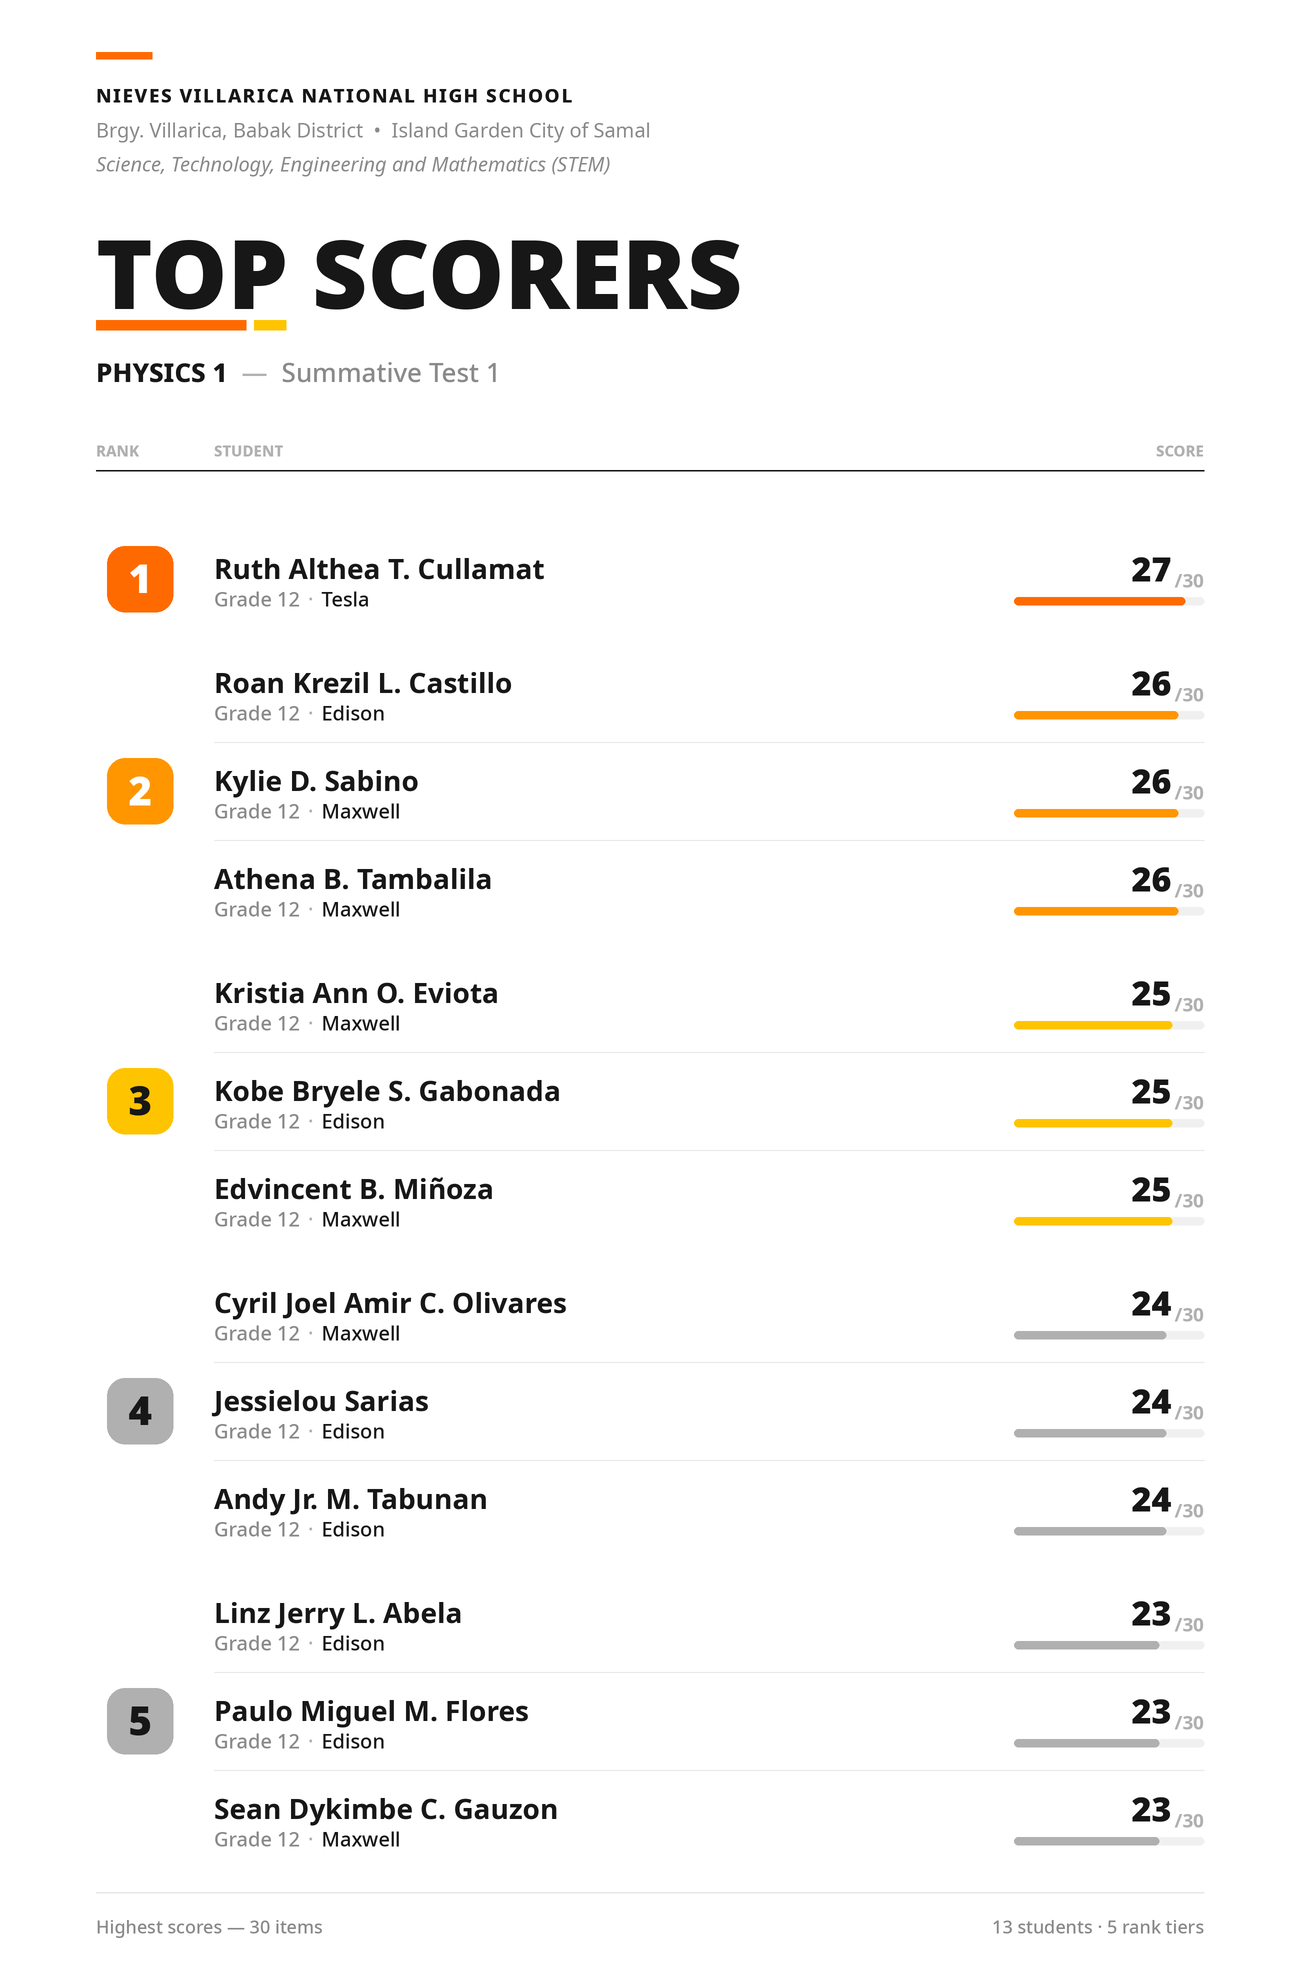
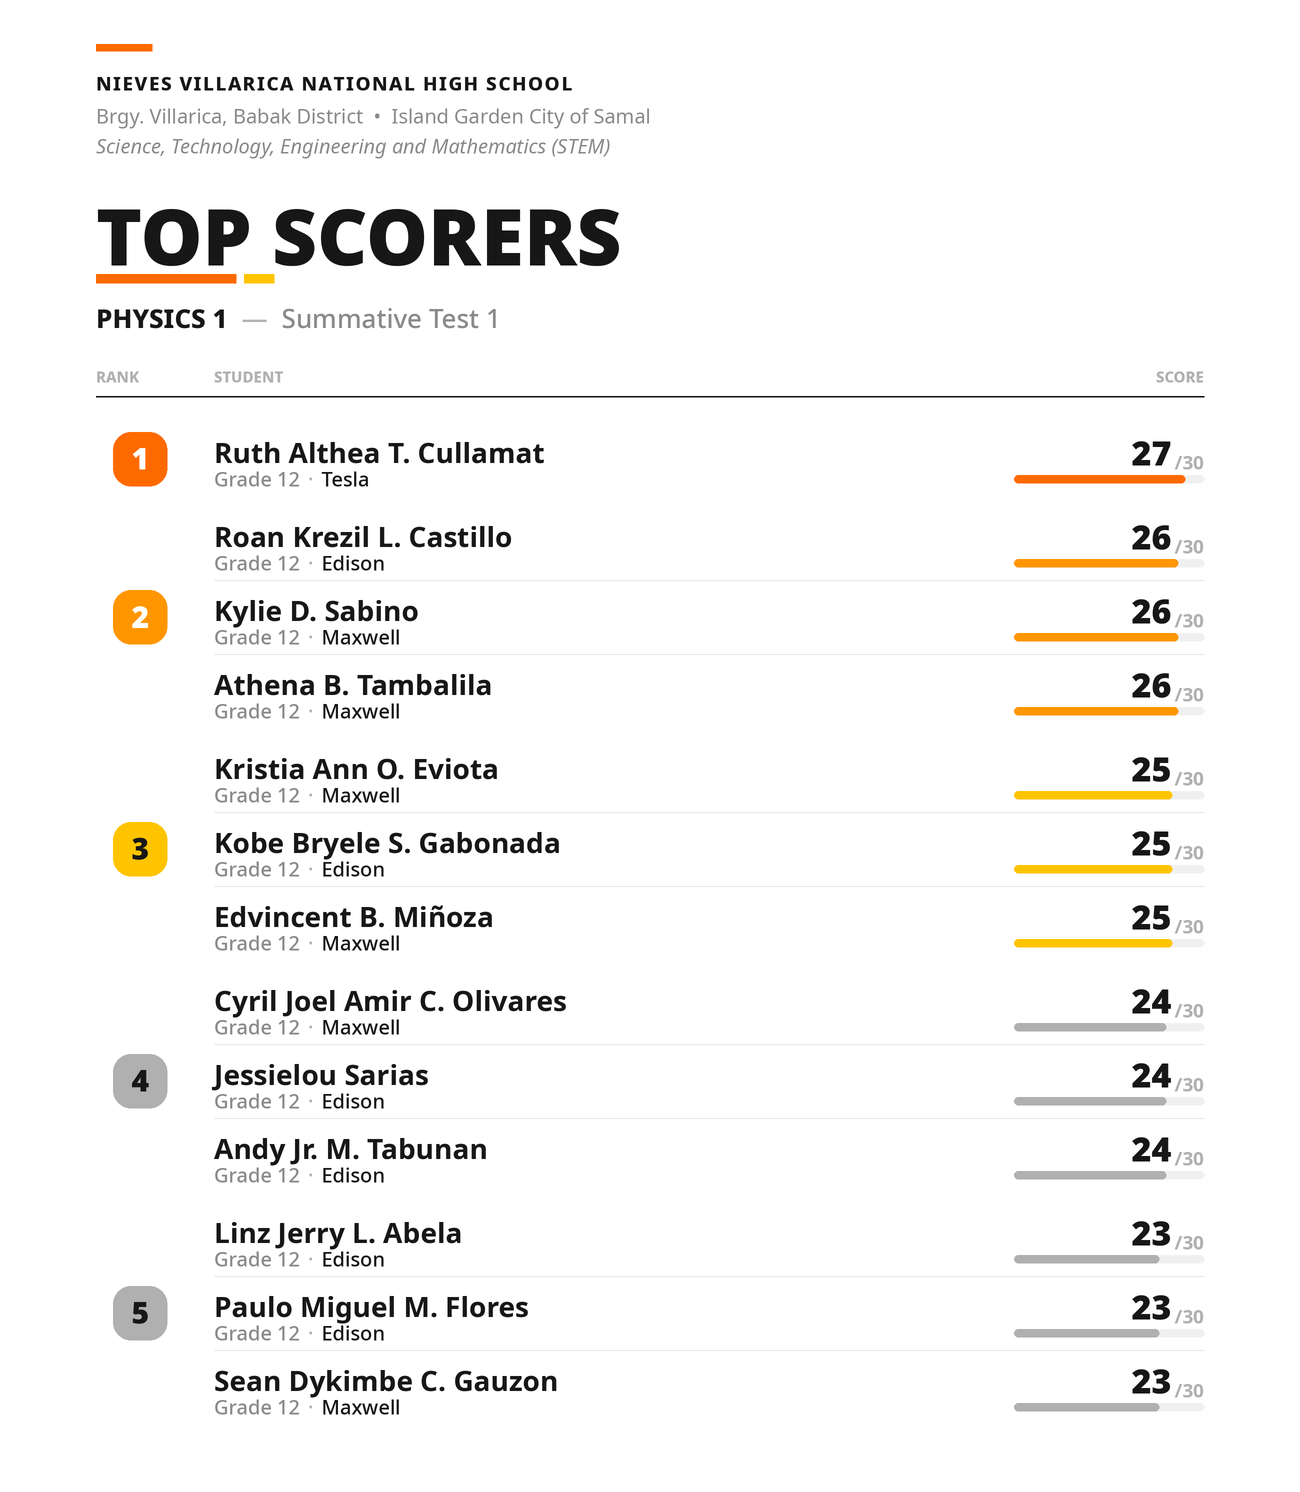
Remove footer text and compact the leaderboard layout

Changed region(s): [[0.0615, 0.0, 0.5846, 0.9866], [0.7692, 0.2158, 0.9231, 0.9866], [0.0923, 0.9558, 0.1231, 0.9866]]

diff --git a/make_topscorers.py b/make_topscorers.py
@@ -51,13 +51,13 @@ def tier_text(rank):
 f_kicker  = F("NotoSans-ExtraBold.ttf", s(19))
 f_addr    = F("NotoSans-Regular.ttf",   s(20))
 f_strand  = F("NotoSans-Italic.ttf",    s(20))
-f_title   = F("NotoSans-Black.ttf",     s(96))
+f_title   = F("NotoSans-Black.ttf",     s(78))
 f_sub_b   = F("NotoSans-ExtraBold.ttf", s(26))
 f_sub     = F("NotoSans-Medium.ttf",    s(26))
 f_colhdr  = F("NotoSans-ExtraBold.ttf", s(15))
 f_name    = F("NotoSans-Bold.ttf",      s(28))
 f_meta    = F("NotoSans-Medium.ttf",    s(20))
-f_badge   = F("NotoSans-Black.ttf",     s(40))
+f_badge   = F("NotoSans-Black.ttf",     s(30))
 f_badge_s = F("NotoSans-ExtraBold.ttf", s(13))
 f_score   = F("NotoSans-Black.ttf",     s(34))
 f_scoremx = F("NotoSans-Bold.ttf",      s(19))
@@ -69,11 +69,11 @@ LM  = 96          # left margin
 RM  = 96
 CW  = W - LM - RM
 
-# vertical rhythm
-row_h      = 98
-grp_gap    = 16
-head_h     = 470
-foot_h     = 120
+# vertical rhythm (compact)
+row_h      = 74
+grp_gap    = 10
+head_h     = 396
+foot_h     = 34
 
 n_rows = sum(len(g[1]) for g in GROUPS)
 list_h = n_rows * row_h + (len(GROUPS) - 1) * grp_gap
@@ -95,31 +95,29 @@ def rrect(draw, box, r, fill=None, outline=None, width=1):
 
 # ---------------------------------------------------------------- header
 x = s(LM)
-y = s(70)
 
 # thin top accent tab (orange) — asymmetric, editorial
-d.rectangle([s(LM), s(52), s(LM) + s(56), s(52) + s(7)], fill=ORANGE)
+d.rectangle([s(LM), s(44), s(LM) + s(56), s(44) + s(7)], fill=ORANGE)
 
-text_tracked(d, (x, s(82)), "NIEVES VILLARICA NATIONAL HIGH SCHOOL",
+text_tracked(d, (x, s(70)), "NIEVES VILLARICA NATIONAL HIGH SCHOOL",
              f_kicker, INK, tracking=s(1.5))
-d.text((x, s(116)), "Brgy. Villarica, Babak District  \u2022  Island Garden City of Samal",
+d.text((x, s(102)), "Brgy. Villarica, Babak District  \u2022  Island Garden City of Samal",
        font=f_addr, fill=GRAY)
-d.text((x, s(150)), "Science, Technology, Engineering and Mathematics (STEM)",
+d.text((x, s(132)), "Science, Technology, Engineering and Mathematics (STEM)",
        font=f_strand, fill=GRAY)
 
 # big title
-ty = s(206)
+ty = s(182)
 d.text((x, ty), "TOP", font=f_title, fill=INK)
 top_w = d.textlength("TOP", font=f_title)
-d.text((x + top_w + s(24), ty), "SCORERS", font=f_title, fill=INK)
-# orange accent block sitting at the baseline gap between the two words? keep clean:
+d.text((x + top_w + s(20), ty), "SCORERS", font=f_title, fill=INK)
 # underline accent under whole title
-tl_bottom = ty + s(96) + s(18)
-d.rectangle([x, tl_bottom, x + s(150), tl_bottom + s(10)], fill=ORANGE)
-d.rectangle([x + s(158), tl_bottom, x + s(190), tl_bottom + s(10)], fill=YELLOW)
+tl_bottom = ty + s(78) + s(14)
+d.rectangle([x, tl_bottom, x + s(140), tl_bottom + s(9)], fill=ORANGE)
+d.rectangle([x + s(148), tl_bottom, x + s(178), tl_bottom + s(9)], fill=YELLOW)
 
 # subtitle
-sy = tl_bottom + s(34)
+sy = tl_bottom + s(26)
 sx = d.text((x, sy), "PHYSICS 1", font=f_sub_b, fill=INK)
 p1w = d.textlength("PHYSICS 1", font=f_sub_b)
 d.text((x + p1w + s(14), sy), "\u2014", font=f_sub, fill=GRAY_SOFT)
@@ -144,8 +142,8 @@ d.text((s(score_rx) - w_sc, s(chy)), sc_hdr, font=f_colhdr, fill=GRAY_SOFT)
 d.rectangle([s(LM), s(head_h), s(W - RM), s(head_h) + max(1, SS)], fill=INK)
 
 # ---------------------------------------------------------------- rows
-y = head_h + 60
-BADGE = 66
+y = head_h + 26
+BADGE = 54
 
 for gi, (rank, students) in enumerate(GROUPS):
     grp_top = y
@@ -173,7 +171,7 @@ for gi, (rank, students) in enumerate(GROUPS):
             d.rectangle([s(name_x), s(ry), s(W - RM), s(ry) + max(1, SS - 1)], fill=LINE)
 
         # name
-        d.text((s(name_x), s(cy - 30)), name, font=f_name, fill=INK)
+        d.text((s(name_x), s(cy - 26)), name, font=f_name, fill=INK)
         # meta: grade + section, section emphasized
         gtxt = "Grade 12"
         d.text((s(name_x), s(cy + 6)), gtxt, font=f_meta, fill=GRAY)
@@ -191,12 +189,12 @@ for gi, (rank, students) in enumerate(GROUPS):
         # baseline align: place big then mx
         total_w = w_big + s(3) + w_mx
         start_x = s(score_rx) - total_w
-        d.text((start_x, s(cy - 34)), big, font=f_score, fill=INK)
-        d.text((start_x + w_big + s(3), s(cy - 12)), mx, font=f_scoremx, fill=GRAY_SOFT)
+        d.text((start_x, s(cy - 30)), big, font=f_score, fill=INK)
+        d.text((start_x + w_big + s(3), s(cy - 10)), mx, font=f_scoremx, fill=GRAY_SOFT)
 
         # score bar under the score, right aligned
         frac = score / MAX_SCORE
-        by = cy + 18
+        by = cy + 16
         bx1 = score_rx
         bx0b = score_rx - 190
         rrect(d, [s(bx0b), s(by), s(bx1), s(by + 8)], r=s(4), fill=TRACK)
@@ -204,14 +202,6 @@ for gi, (rank, students) in enumerate(GROUPS):
         rrect(d, [s(bx0b), s(by), s(bx0b + fillw), s(by + 8)], r=s(4), fill=col)
 
     y += grp_h + grp_gap
-
-# ---------------------------------------------------------------- footer
-fy = H - foot_h + 24
-d.rectangle([s(LM), s(fy), s(W - RM), s(fy) + max(1, SS)], fill=LINE)
-d.text((s(LM), s(fy + 22)), "Highest scores \u2014 30 items", font=f_foot, fill=GRAY)
-rt = "13 students \u00b7 5 rank tiers"
-w_rt = d.textlength(rt, font=f_foot)
-d.text((s(W - RM) - w_rt, s(fy + 22)), rt, font=f_foot, fill=GRAY)
 
 # ---------------------------------------------------------------- output
 out = img.resize((W, H), Image.LANCZOS)
